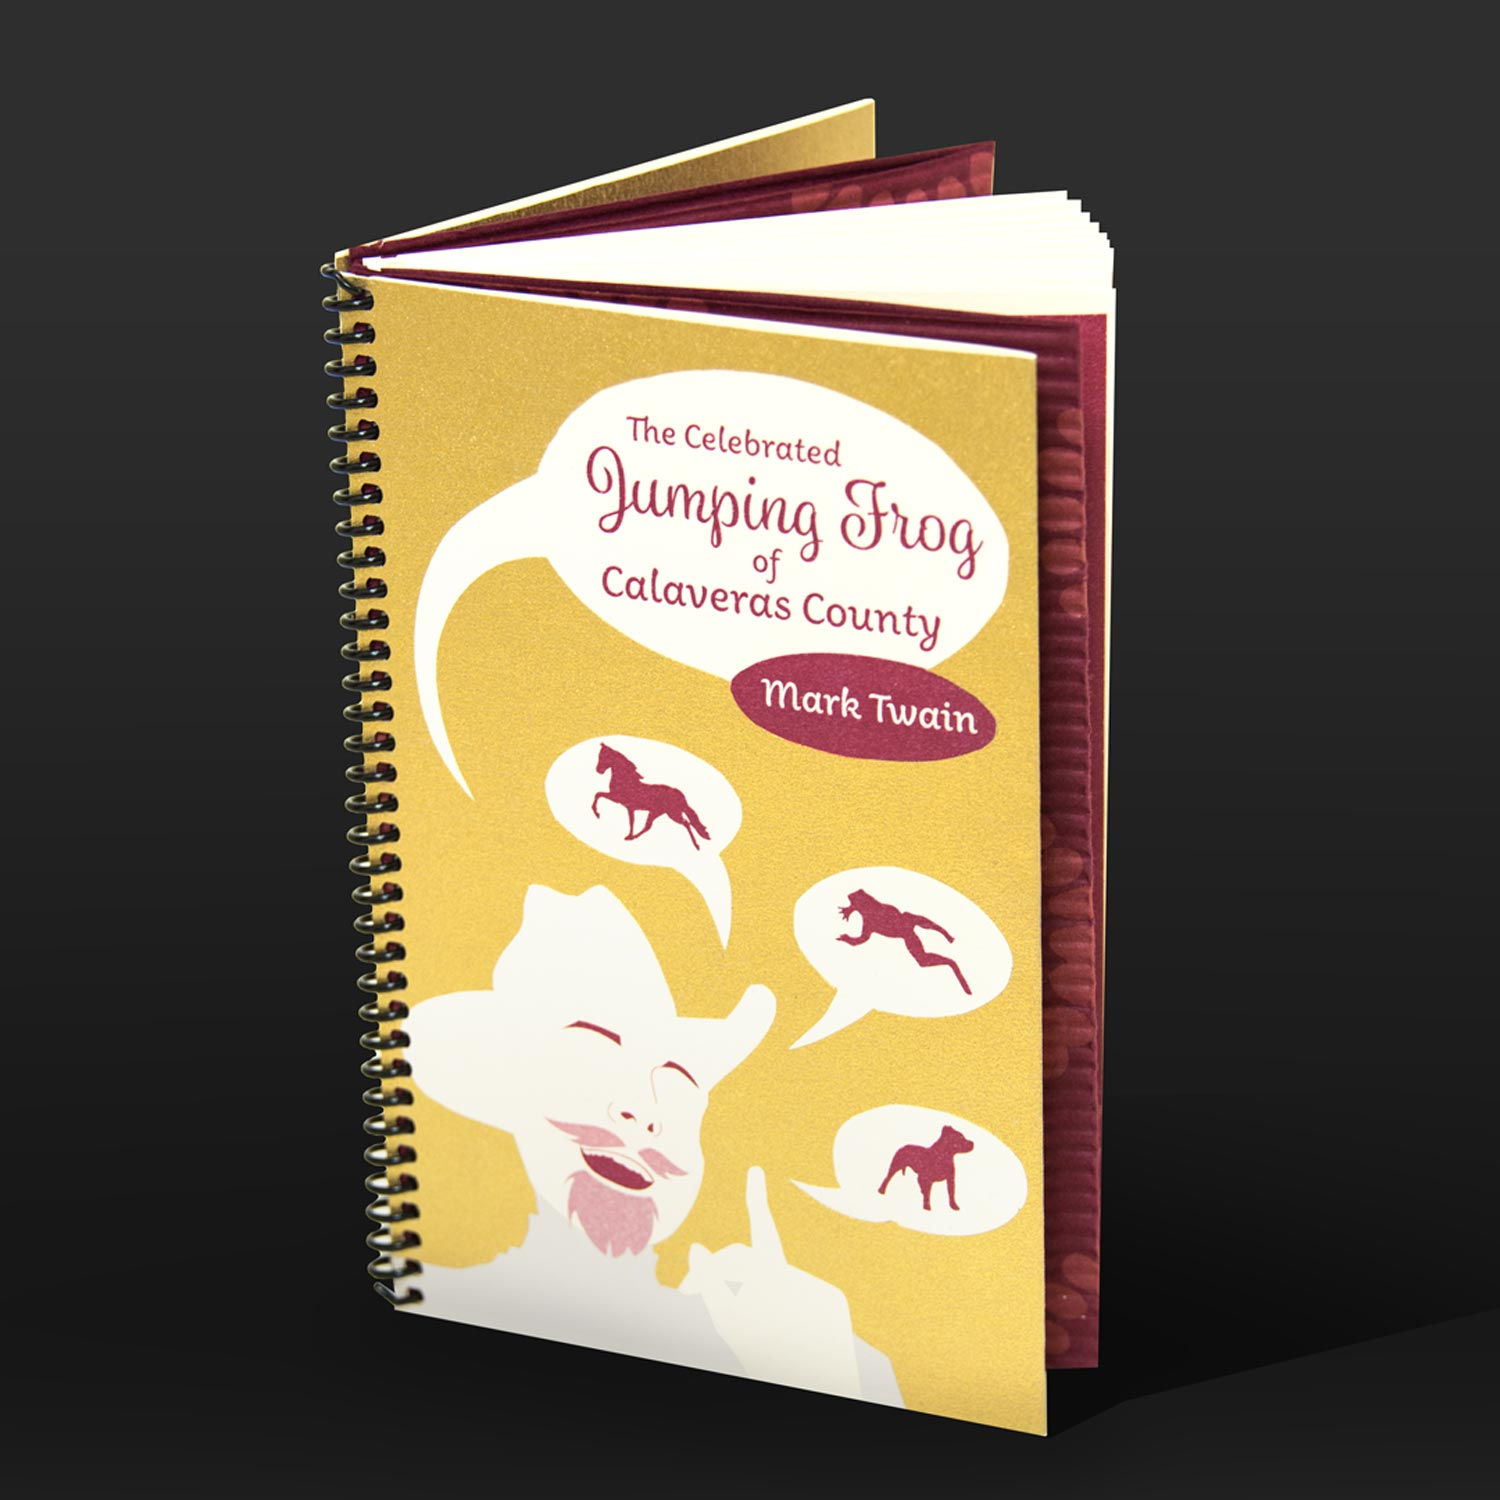
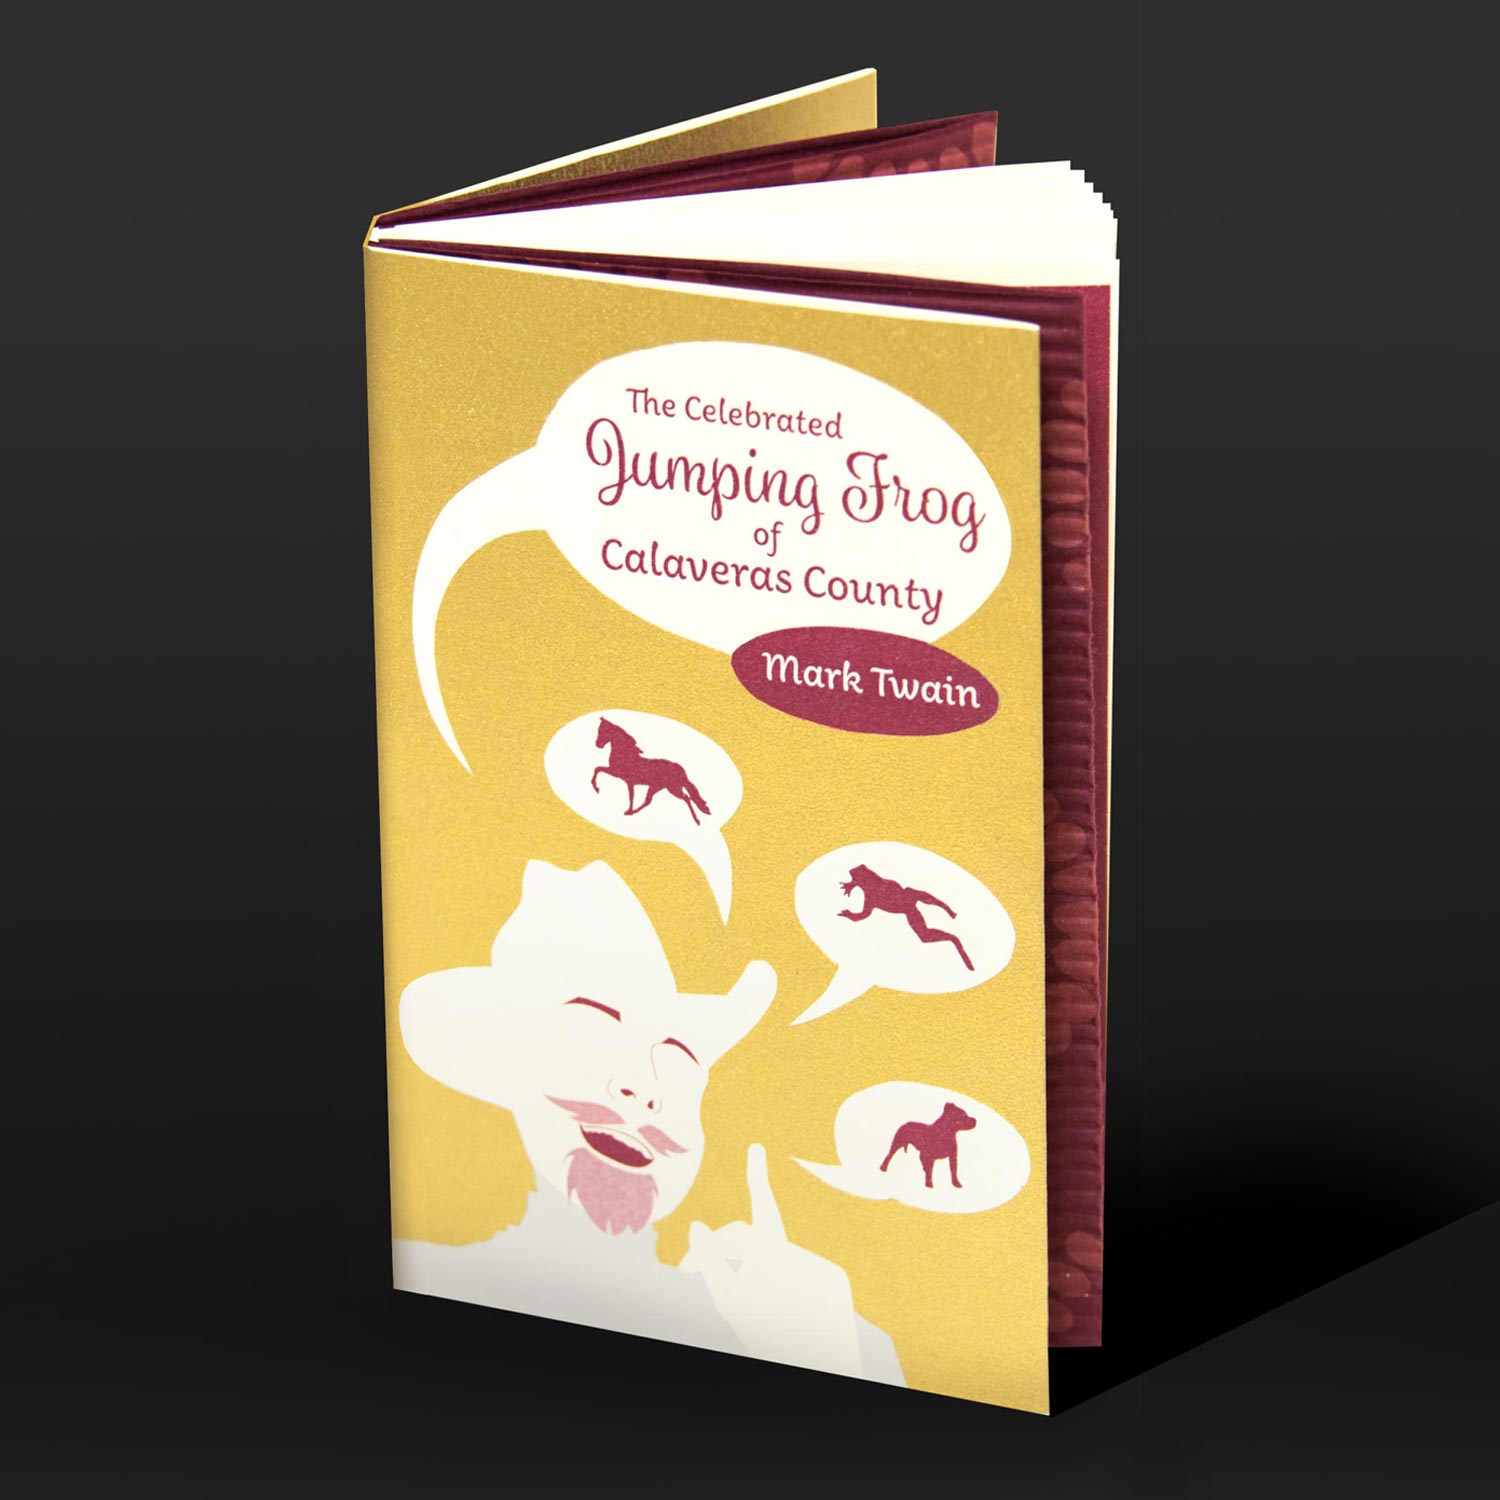
changed all jumpingfrog

Changed region(s): [[0.2147, 0.0307, 0.7667, 0.9813]]

diff --git a/_portfolio/jumping-book.md b/_portfolio/jumping-book.md
@@ -10,8 +10,25 @@ layout: portfolio-item
 
 The goal of this project was to combine type and image to create a hand made book on Mark Twain's short story: The Celebrated Jumping Frog of Calaveras County.
 
-![Adriana Belinski]({{ "/assets/images/jumpingprocess.jpg" | relative_url }}){:class="full-width"}
-![Adriana Belinski]({{ "/assets/images/jumpingprocess2.jpg" | relative_url }}){:class="full-width"}
-![Adriana Belinski]({{ "/assets/images/jumpingprocess3.jpg" | relative_url }}){:class="full-width"}
-![Adriana Belinski]({{ "/assets/images/jumpingprocess4.jpg" | relative_url }}){:class="full-width"}
-![Adriana Belinski]({{ "/assets/images/jumpingprocess5.jpg" | relative_url }}){:class="full-width"}
+![Adriana Belinski]({{ "/assets/images/jumpingprocessv2.jpg" | relative_url }}){:class="full-width"}
+<br>
+<br><br><br>
+
+![Adriana Belinski]({{ "/assets/images/bookbackandfront.jpg" | relative_url }}){:class="full-width"}
+<br>
+For the front and back cover, I cut a design with an exacto knife out of gold foil and placed this layout over an illustration I printed. I chose maroon and gold as my main colors to illicit a regal feel to the book. The image on the cover is of the main character who rambles about different topics throughout the story.
+<br><br><br>
+
+![Adriana Belinski]({{ "/assets/images/jumpingbookinside.jpg" | relative_url }}){:class="full-width"}
+<br>
+In the inside of the book, I chose a soft, fabric-like material to add interest and variety in the texture of the book.
+<br><br><br>
+<h1>Inside Pages</h1>
+![Adriana Belinski]({{ "/assets/images/jumpingbooktext.jpg" | relative_url }}){:class="full-width"}
+<br>
+![Adriana Belinski]({{ "/assets/images/jumpingprocessinsidetext2.jpg" | relative_url }}){:class="full-width"}
+<br>
+
+<h1>Close-ups</h1>
+
+![Adriana Belinski]({{ "/assets/images/jumpingfrogcloseups.jpg" | relative_url }}){:class="full-width"}
